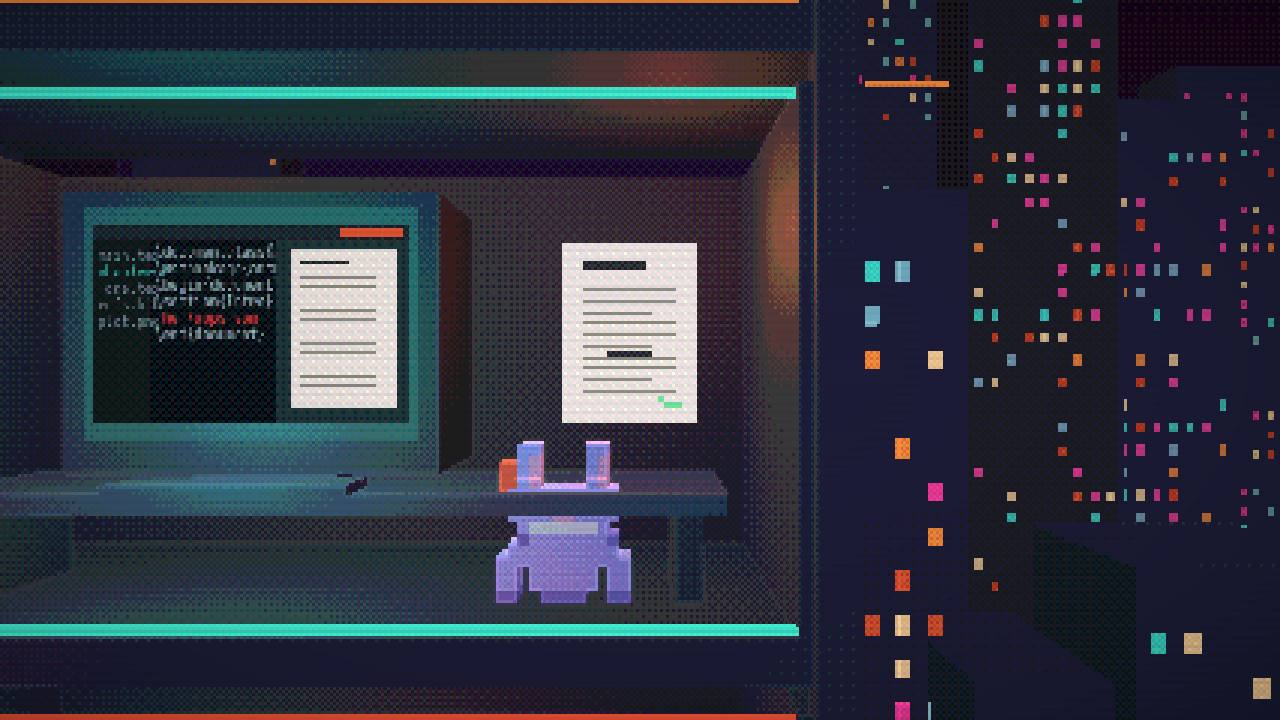
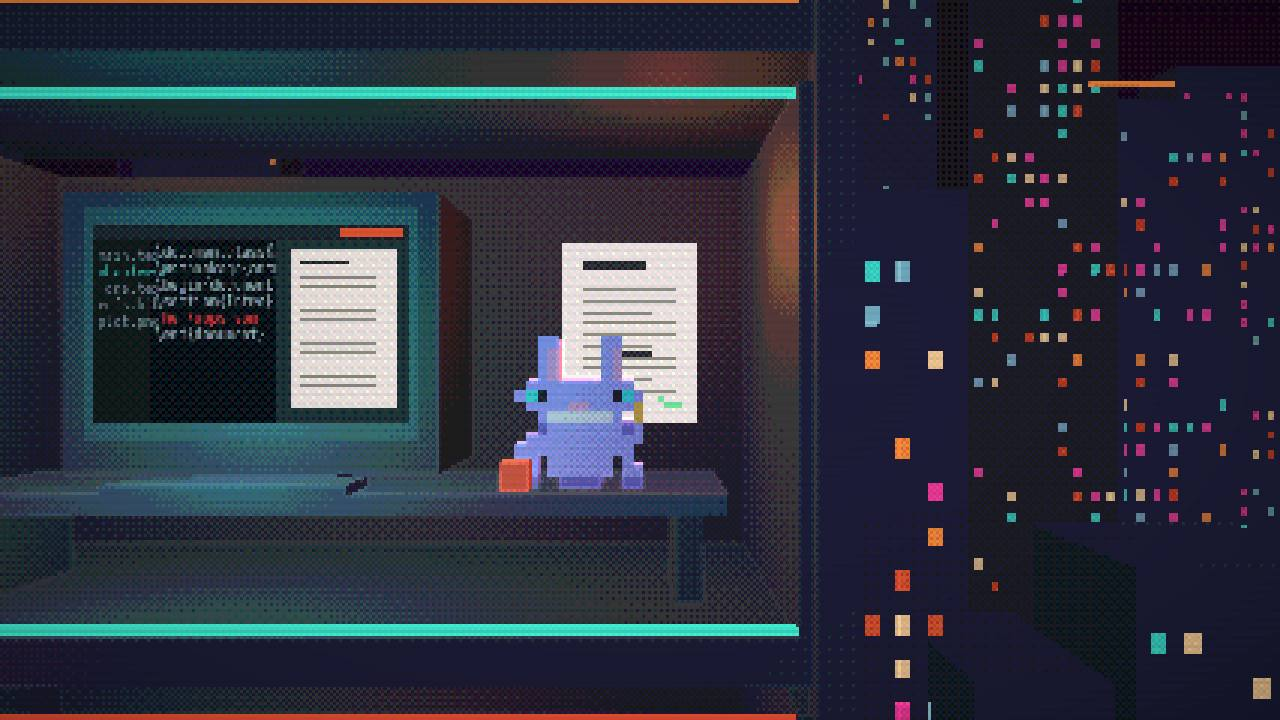
fix: seat Hazel on the workspace desk instead of below it

Changed region(s): [[0.375, 0.4583, 0.5, 0.8556], [0.8438, 0.0917, 0.9375, 0.1222], [0.6562, 0.0917, 0.75, 0.1222]]

diff --git a/frontend/src/landing/scene/rooms.js b/frontend/src/landing/scene/rooms.js
@@ -221,7 +221,7 @@ function workspaceRoom() {
 
   // Hazel works the editor: she types, and points at the page for Find line.
   const hazel = createCrewMember('hazel', { scale: 0.8 });
-  hazel.root.position.set(3.4, y0 + 0.05, 1.3);
+  hazel.root.position.set(3.6, y0 + 1.6, 0.7); // on the desk top, not in front of it
   g.add(hazel.root);
 
   let tab = 'project';
